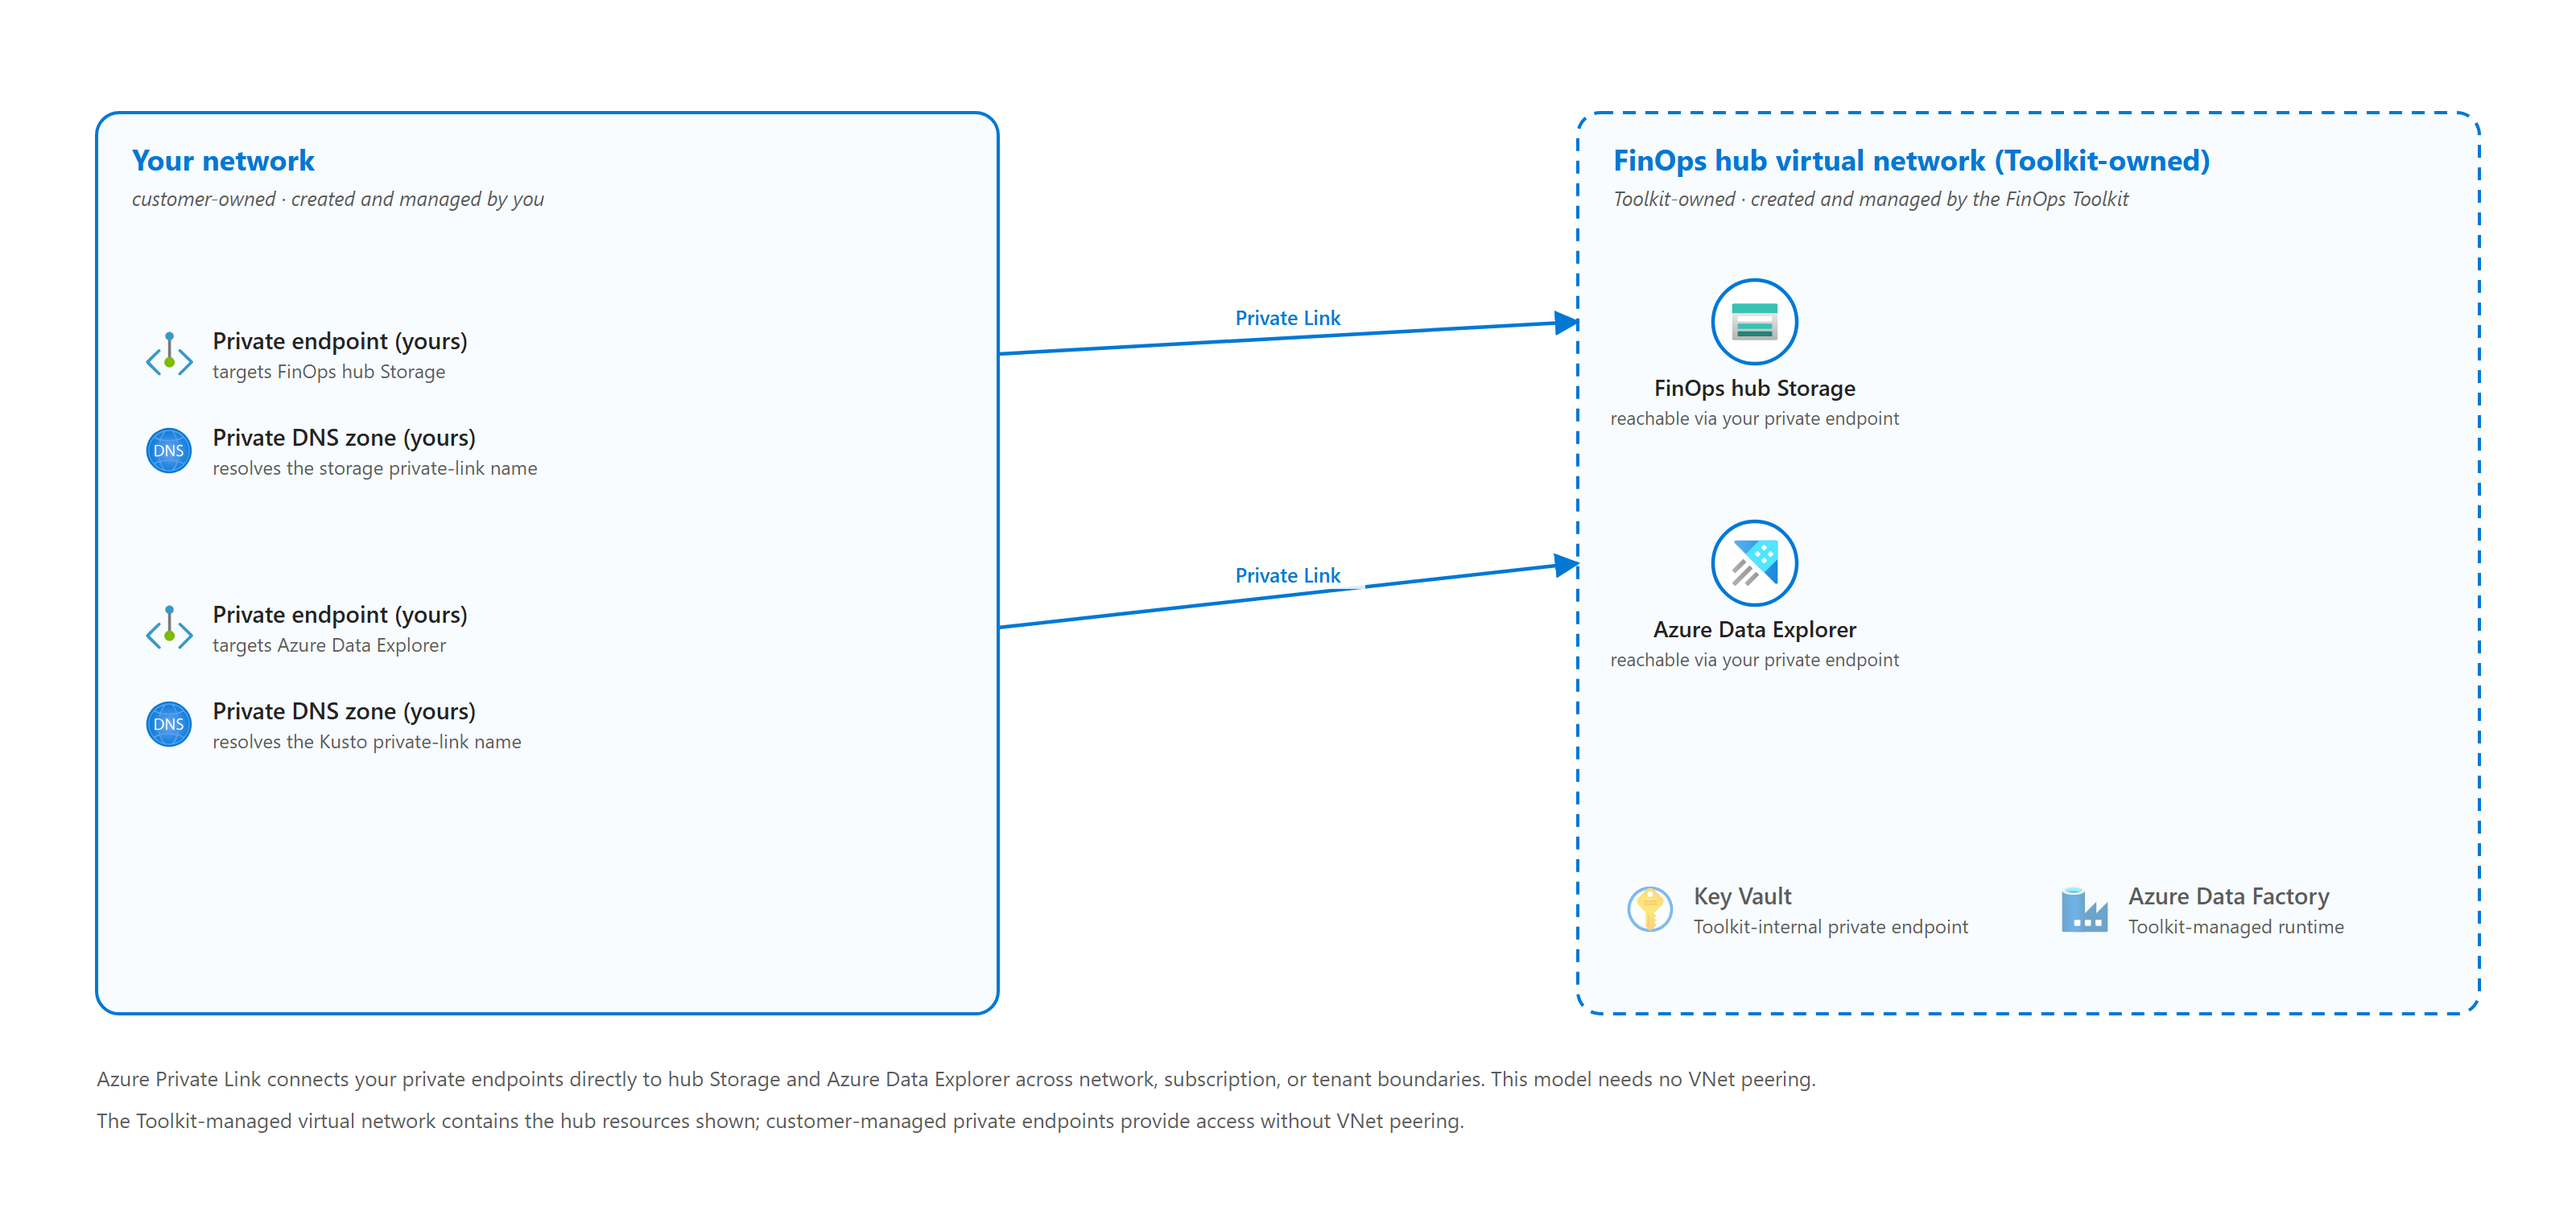
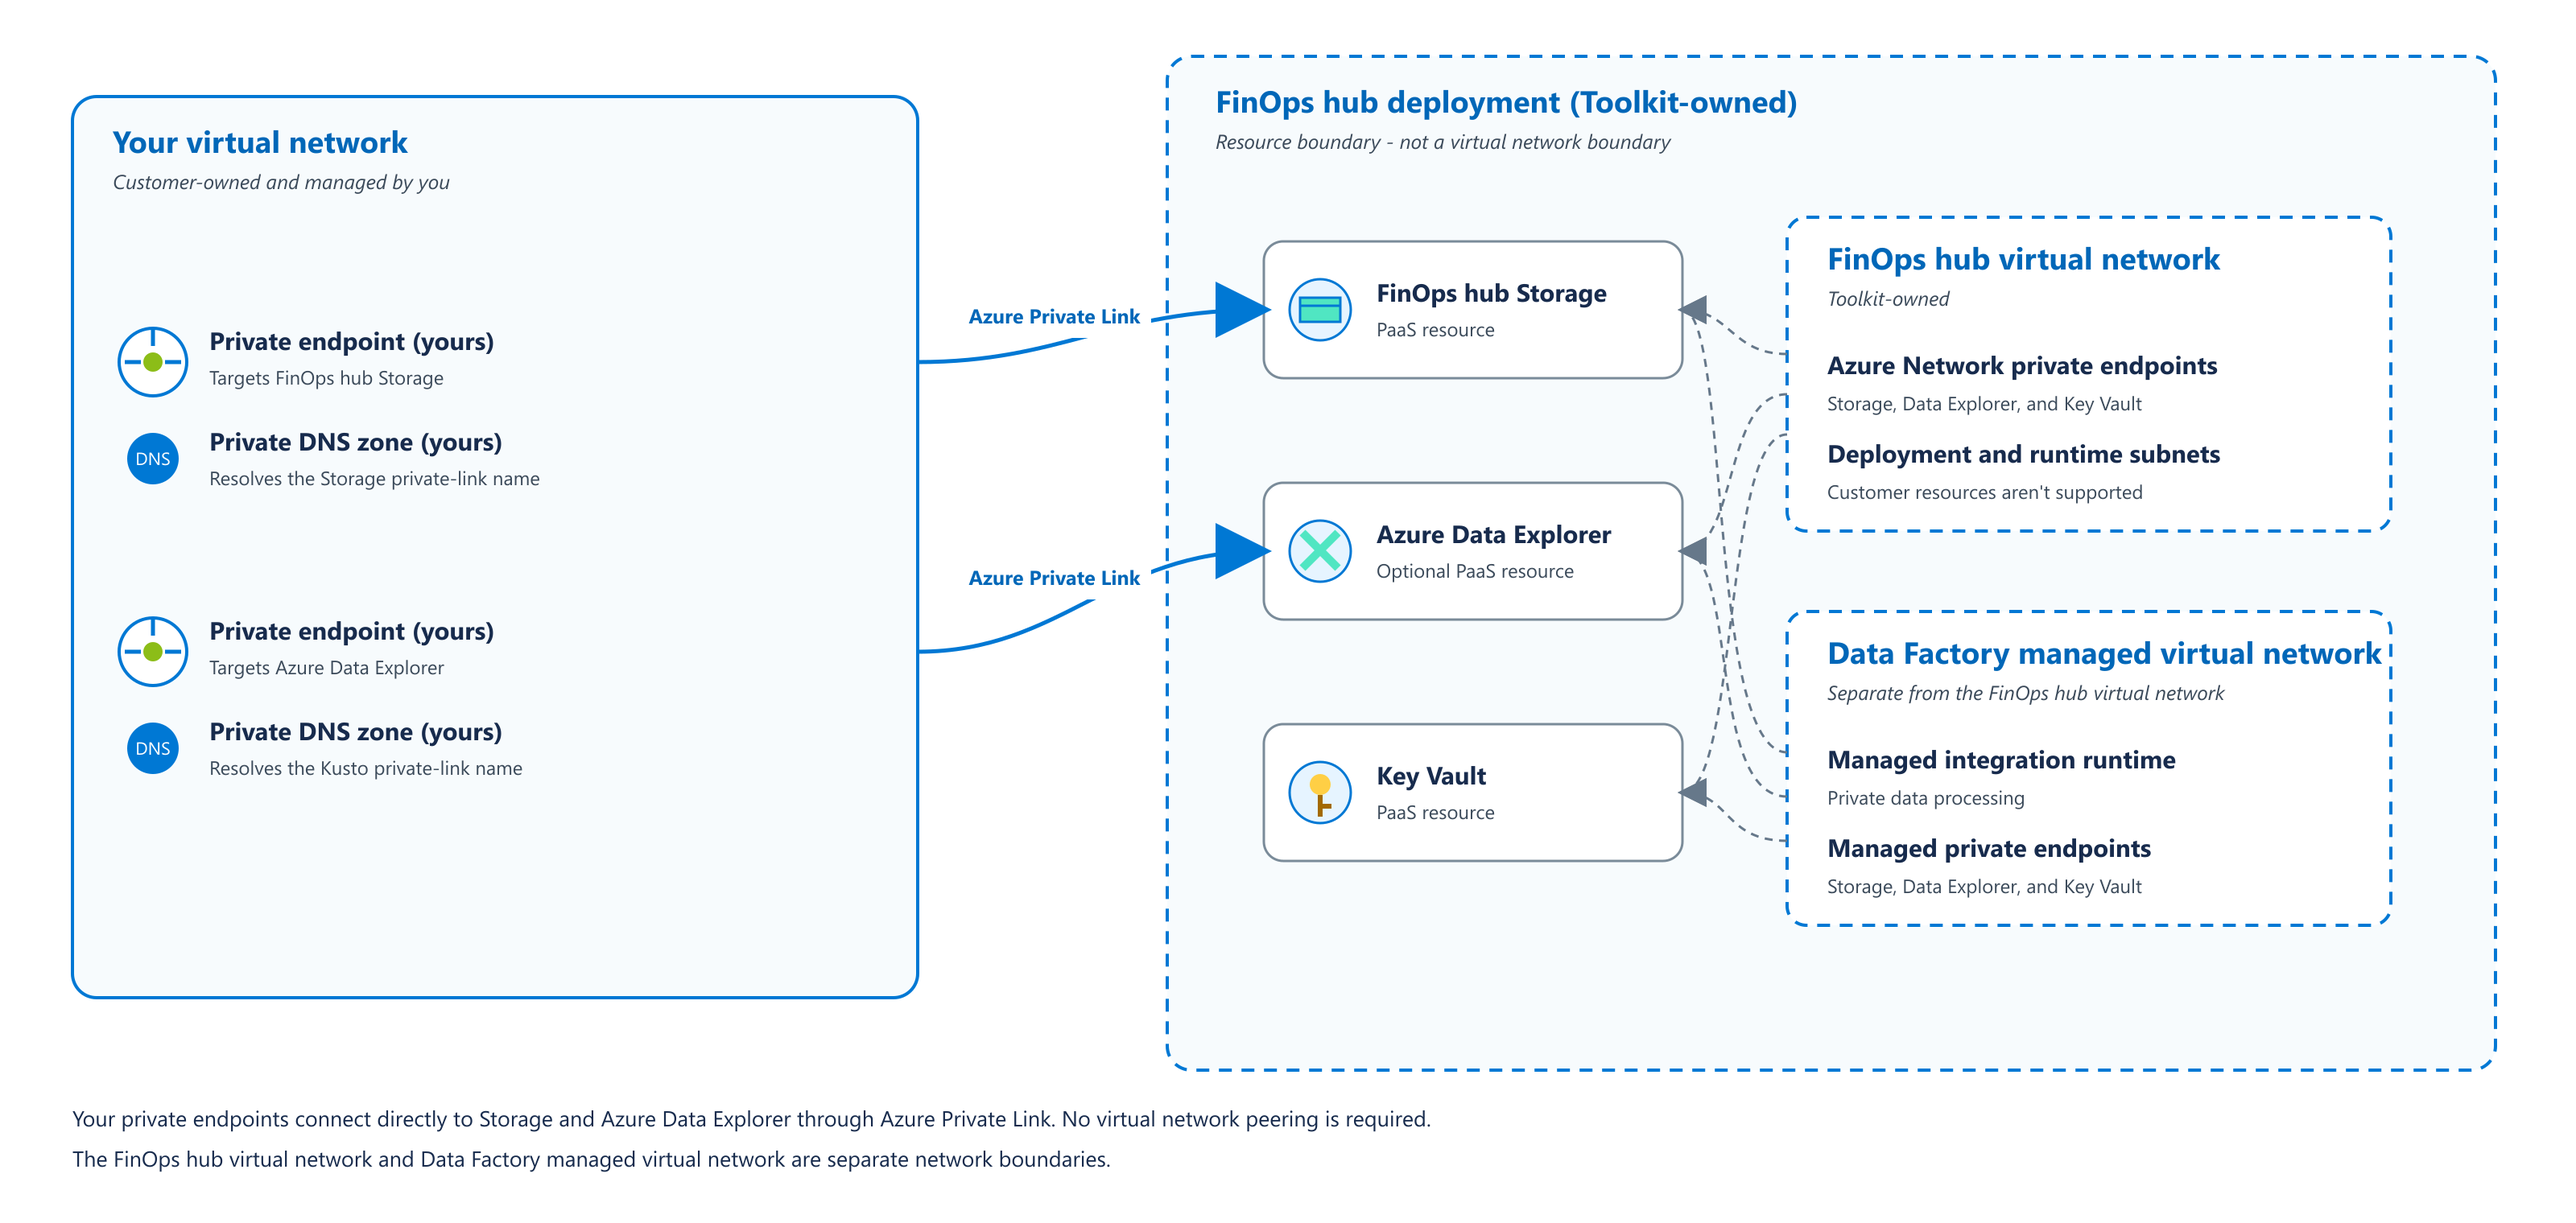
docs: correct private endpoint topology guidance

diff --git a/docs-mslearn/toolkit/hubs/private-networking.md b/docs-mslearn/toolkit/hubs/private-networking.md
@@ -3,7 +3,7 @@ title: Configure private networking in FinOps hubs
 description: Learn about data access options with FinOps hubs and how to configure secure access to your data with private endpoints.
 author: flanakin
 ms.author: micflan
-ms.date: 08/19/2026
+ms.date: 08/22/2026
 ms.topic: how-to
 ms.service: finops
 ms.reviewer: micflan
@@ -32,14 +32,14 @@ Public access in FinOps hubs has the following traits:
 
 ## How private access works
 
-Private access is a more secure option that places FinOps hubs resources on an isolated network and limits access via private networking:
+Private access disables public network access and uses private endpoints for service traffic:
 
 - Public network access is disabled by default.
 - Storage is accessible via private IP address and trusted Azure services - firewall is set to default deny with bypass for services on trusted list.
 - Data Explorer (if deployed) is accessible via private IP address - firewall is set to default deny with no exceptions.
 - Key Vault is accessible via private IP address and trusted Azure services - firewall is set to default deny with bypass for services on trusted list.
-- Azure Data Factory is configured to use a managed integration runtime for private data processing.
-- A virtual network is deployed to ensure communication between all components during deployment and at runtime remains private.
+- Azure Data Factory uses a managed integration runtime in a separate Data Factory managed virtual network.
+- The FinOps hub virtual network contains Toolkit-managed private endpoints and deployment and runtime subnets.
 
 :::image type="content" source="./media/private-networking/finops-hubs-private-network.png" border="false" alt-text="Screenshot of privately accessible deployments." lightbox="./media/private-networking/finops-hubs-private-network.png" :::
 
@@ -55,7 +55,7 @@ Note that private networking incurs extra cost for networking resources, connect
 
 For private access from your network, create and manage private endpoints and DNS in your own virtual network for the FinOps hub Storage and Azure Data Explorer resources. This topology is preferred because it keeps customer networking separate from the Toolkit-managed virtual network. The Toolkit doesn't deploy or manage resources in your network.
 
-:::image type="content" source="./media/private-networking/finops-hubs-customer-endpoints.png" border="false" alt-text="Diagram of customer-managed private endpoints and DNS reaching FinOps hub Storage and Azure Data Explorer through Private Link." lightbox="./media/private-networking/finops-hubs-customer-endpoints.png" :::
+:::image type="content" source="./media/private-networking/finops-hubs-customer-endpoints.png" border="false" alt-text="Diagram of customer private endpoints connecting to Storage and Azure Data Explorer. The hub and Data Factory virtual networks are separate." lightbox="./media/private-networking/finops-hubs-customer-endpoints.png" :::
 
 Azure Private Link connects your private endpoints directly to Storage and Azure Data Explorer without entering or peering with the FinOps hub virtual network. The Toolkit-managed virtual network remains deployed for internal connectivity. For configuration guidance, see [Private Endpoint overview](/azure/private-link/private-endpoint-overview) and [Private Endpoint DNS integration](/azure/private-link/private-endpoint-dns-integration).
 
@@ -71,9 +71,9 @@ The following table compares the network access options available in FinOps hubs
 | ------------------- | ----------------------------- | ----------------------------------------------------------------------------------------------------------------------- | -------------------------------------------------------------- |
 | Storage             | Accessible over the internet¹ | Customer-managed private endpoints in your virtual network (preferred) or customer-managed peering (secondary)          | Data access can remain private to your network                 |
 | Azure Data Explorer | Accessible over the internet¹ | Customer-managed private endpoints in your virtual network (preferred) or customer-managed peering (secondary)          | Data access can remain private to your network                 |
-| Key Vault           | Accessible over the internet¹ | Access restricted to the Toolkit-managed FinOps hub virtual network and trusted Azure services                          | Keys and secrets aren't accessible from the open internet      |
-| Azure Data Factory  | Uses public compute pool      | Managed integration runtime in the Toolkit-managed FinOps hub virtual network                                           | All data processing happens inside the network                 |
-| Virtual Network     | Not used                      | Toolkit-owned and managed isolated virtual network; customer resources aren't supported in this network                 | Toolkit resources remain isolated from customer resources      |
+| Key Vault           | Accessible over the internet¹ | Access through Toolkit-managed private endpoints and trusted Azure services                                             | Keys and secrets aren't accessible from the open internet      |
+| Azure Data Factory  | Uses public compute pool      | Managed integration runtime in a separate Data Factory managed virtual network                                          | Data processing connects to hub services through managed private endpoints |
+| Virtual Network     | Not used                      | Toolkit-owned FinOps hub virtual network for private endpoints and deployment and runtime subnets                        | Toolkit networking remains separate from customer resources    |
 
 _¹ While resources are accessible over the internet, access is still protected by role-based access control (RBAC)._
 
@@ -91,9 +91,9 @@ Before enabling private access, review the networking details on this page and c
 
 ## Removing private networking
 
-If you need to reduce costs or simplify your FinOps hub deployment, you can switch back to public access. Redeploying with **Access** set to **Public** configures Storage, Data Explorer, and Key Vault to use public access and switches Azure Data Factory back to the public integration runtime.
+If you need to reduce costs or simplify your FinOps hub deployment, you can switch back to public access. Redeploying with **Access** set to **Public** configures Storage, Data Explorer (if deployed), and Key Vault to use public access and switches Azure Data Factory back to the public integration runtime.
 
-The incremental deployment doesn't delete the Toolkit-created virtual network, private endpoints, private DNS zones, or managed integration runtime. These resources continue to incur costs until you remove them. Customer-managed endpoints, DNS, and other resources in your network are also outside the Toolkit deployment and aren't removed.
+The incremental deployment doesn't delete the Toolkit-created virtual network, private endpoints, private DNS zones, managed integration runtime, or optional NAT Gateway and static public IP address. These resources continue to incur costs until you remove them. Customer-managed endpoints, DNS, and other resources in your network are also outside the Toolkit deployment and aren't removed.
 
 > [!WARNING]
 > Removing private networking is a significant change that will affect how you access your FinOps hub. Ensure all stakeholders understand the security implications before proceeding.
@@ -141,6 +141,7 @@ The incremental deployment doesn't delete the Toolkit-created virtual network, p
      1. Private endpoints
      2. Private DNS zones
      3. Virtual network and network security groups (NSGs)
+     4. NAT Gateway and static public IP address, if deployed
    - Don't delete customer-managed networking resources as part of the FinOps hub cleanup
 
 5. **Remove Azure Data Factory managed integration runtime** (optional):
